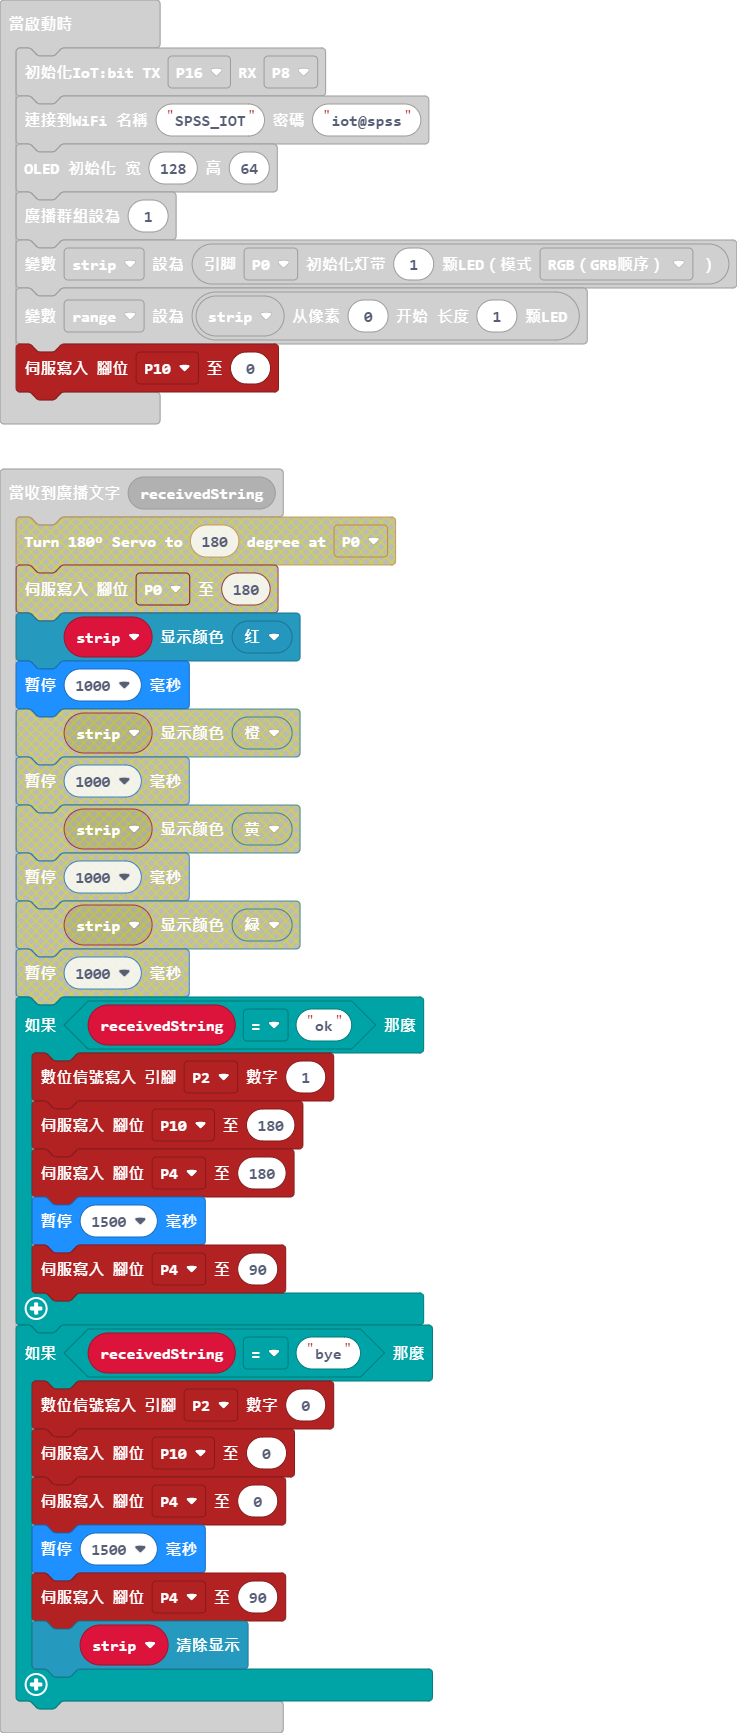
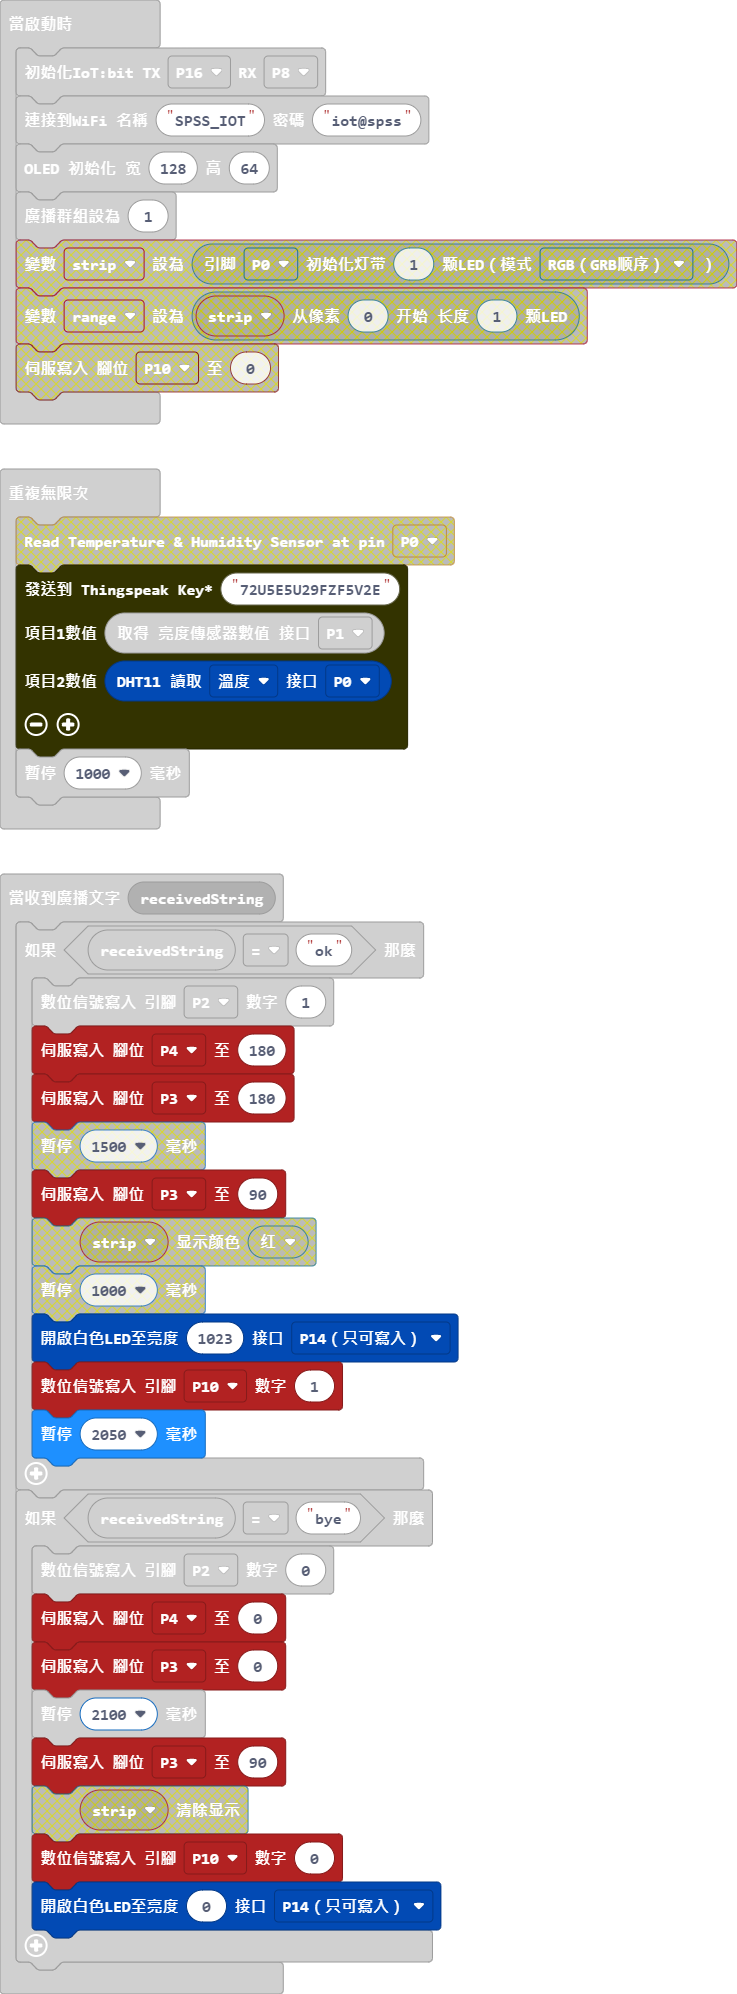
更新 main.blocks, main.ts

diff --git a/main.ts b/main.ts
@@ -4,36 +4,32 @@ WiFiIoT.on_wifi_connect(function (IP_Address, Device_ID) {
 radio.onReceivedString(function (receivedString) {
     if (receivedString == "ok") {
         pins.digitalWritePin(DigitalPin.P2, 1)
-        pins.servoWritePin(AnalogPin.P10, 180)
         pins.servoWritePin(AnalogPin.P4, 180)
-        basic.pause(1500)
-        pins.servoWritePin(AnalogPin.P4, 90)
-        strip.showColor(neopixel.colors(NeoPixelColors.Red))
-        basic.pause(1000)
+        pins.servoWritePin(AnalogPin.P3, 180)
+        basic.pause(2050)
+        pins.servoWritePin(AnalogPin.P3, 90)
+        SmartCity.turn_white_led(1023, AnalogPin.P14)
+        pins.digitalWritePin(DigitalPin.P10, 1)
     }
     if (receivedString == "bye") {
         pins.digitalWritePin(DigitalPin.P2, 0)
-        pins.servoWritePin(AnalogPin.P10, 0)
         pins.servoWritePin(AnalogPin.P4, 0)
-        basic.pause(1500)
-        pins.servoWritePin(AnalogPin.P4, 90)
-        strip.clear()
+        pins.servoWritePin(AnalogPin.P3, 0)
+        basic.pause(2100)
+        pins.servoWritePin(AnalogPin.P3, 90)
+        pins.digitalWritePin(DigitalPin.P10, 0)
+        SmartCity.turn_white_led(0, AnalogPin.P14)
     }
 })
-let strip: neopixel.Strip = null
 WiFiIoT.initializeWifi(SerialPin.P16, SerialPin.P8)
 WiFiIoT.setWifi("SPSS_IOT", "iot@spss")
 OLED.init(128, 64)
 radio.setGroup(1)
-strip = neopixel.create(DigitalPin.P0, 1, NeoPixelMode.RGB)
-let range = strip.range(0, 1)
-pins.servoWritePin(AnalogPin.P10, 0)
 basic.forever(function () {
-    House.readDHT11(DigitalPin.P0)
     WiFiIoT.sendThingspeak(
     "72U5E5U29FZF5V2E",
     SmartCity.read_light_sensor(AnalogPin.P1),
-    House.readTemperatureData(House.Temp_degree.degree_Celsius)
+    SmartCity.readData(SmartCity.DHT11dataType.temperature, DigitalPin.P0)
     )
     basic.pause(1000)
 })
